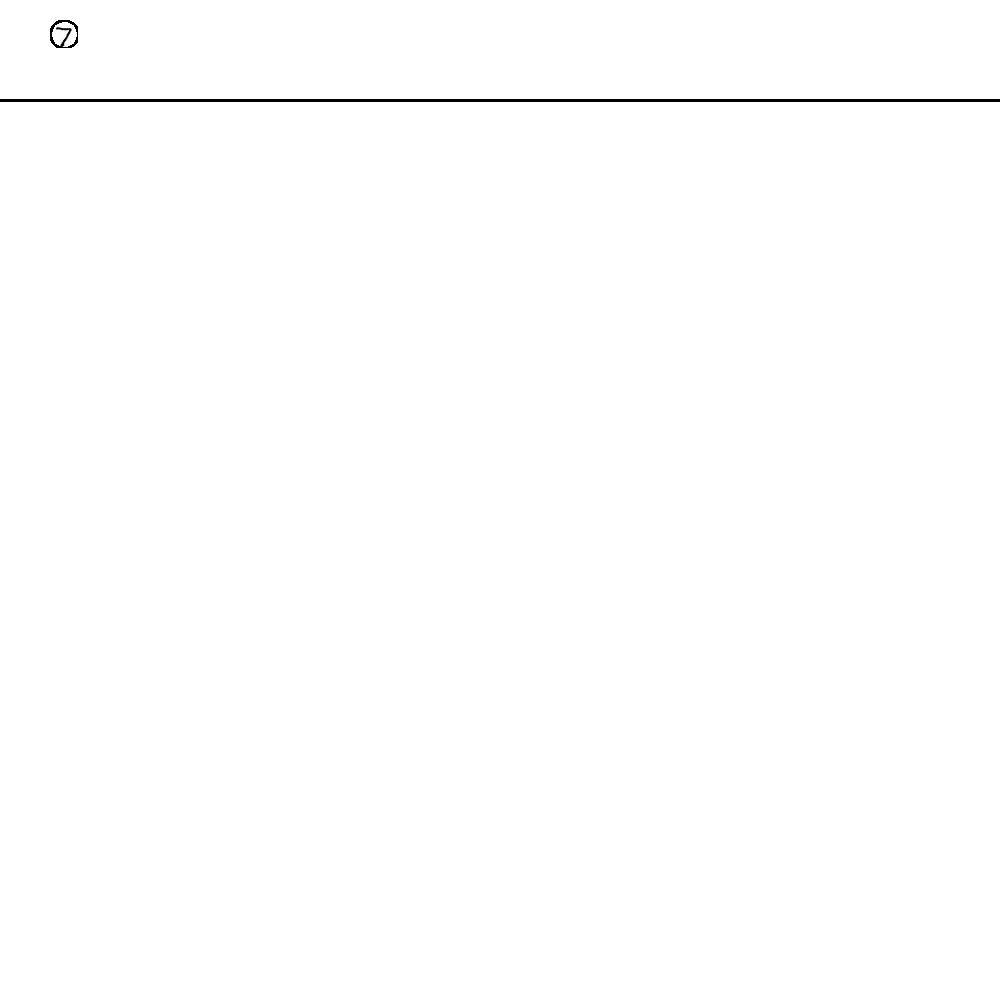
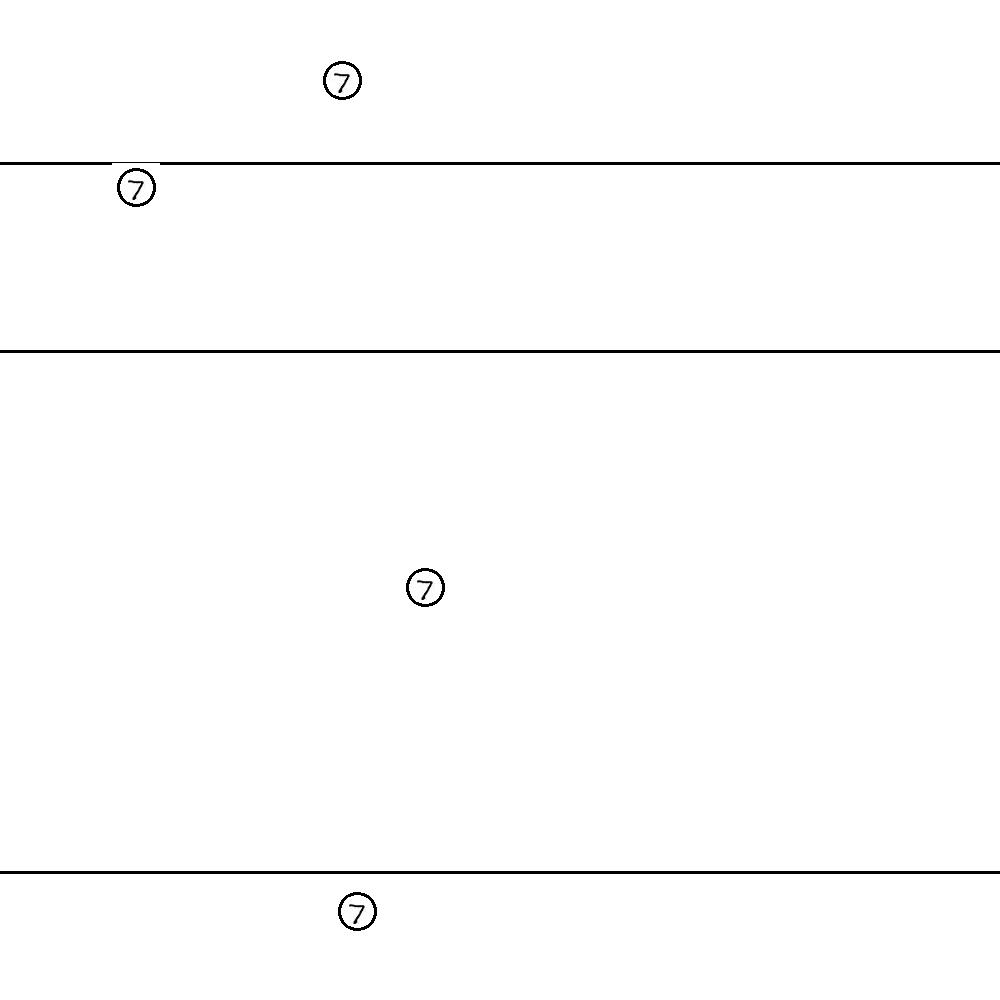
homework image now created

diff --git a/data_generator.py b/data_generator.py
@@ -9,33 +9,98 @@ from PIL import Image
 
 # MNIST_Data_Load.loadData()
 
-
 img = np.zeros([1000, 1000, 3], dtype=np.uint8)
+
 img.fill(255)
-# imwrite("Result.jpg", img)
 
-line_loc = random.randint(100, 1000)
+latest_line_loc = 0
+previous_line_loc = 0
 
-cv2.line(img=img, pt1=(0, 100), pt2=(
-    1000, 100), color=(0, 0, 0), thickness=2)
+img_PIL = None
 
-latest_location = 100
+while latest_line_loc <= 900:
 
-digit_img = cv2.imread('./data/MNIST/jpg_form/test/00000.jpg')
+    line_loc = random.randint(100, 1000)
 
-digit_img = cv2.bitwise_not(digit_img)
+    if 800 <= latest_line_loc <= 1000 or latest_line_loc + line_loc >= 950:
+        digit_img = cv2.imread('./data/MNIST/jpg_form/test/00000.jpg')
 
-dig_x, dig_y, dig_channel = digit_img.shape
+        digit_img = cv2.bitwise_not(digit_img)
 
-cv2.circle(digit_img, (int(dig_x/2), int(dig_y/2)), 14, (0, 0, 0), 2)
+        dig_x, dig_y, dig_channel = digit_img.shape
 
-digit_img_PIL = Image.fromarray(np.uint8(digit_img)).convert(
-    'RGB')  # Image.open(digit_img)
+        dig_holder = np.zeros([dig_x + 20, dig_y + 20, 3], dtype=np.uint8)
 
-img_PIL = Image.fromarray(np.uint8(img)).convert(
-    'RGB')  # Image.open(img)
+        dig_holder.fill(255)
 
-img_PIL.paste(digit_img_PIL, (50, 20))
+        dig_holder_x, dig_holder_y, dig_holder_channel = dig_holder.shape
+
+        y_offset = round((dig_holder_x-dig_x)/2)
+        x_offset = round((dig_holder_y-dig_y)/2)
+
+        dig_final = dig_holder.copy()
+
+        dig_final[y_offset:y_offset+dig_y, x_offset:x_offset+dig_x] = digit_img
+
+        cv2.circle(dig_final, (int(dig_holder_x/2),
+                               int(dig_holder_y/2)), 18, (0, 0, 0), 2)
+
+        digit_img_PIL = Image.fromarray(np.uint8(dig_final)).convert(
+            'RGB')
+
+        img_PIL = Image.fromarray(np.uint8(img)).convert(
+            'RGB')
+
+        img_PIL.paste(
+            digit_img_PIL, (random.randint(20, 800), random.randint(latest_line_loc + 10, int(1000*.95))))
+
+        img = np.array(img_PIL)
+
+        break
+
+    elif latest_line_loc + line_loc > 900:
+        break
+
+    latest_line_loc += line_loc
+
+    cv2.line(img=img, pt1=(0, latest_line_loc), pt2=(
+        1000, latest_line_loc), color=(0, 0, 0), thickness=2)
+
+    digit_img = cv2.imread('./data/MNIST/jpg_form/test/00000.jpg')
+
+    digit_img = cv2.bitwise_not(digit_img)
+
+    dig_x, dig_y, dig_channel = digit_img.shape
+
+    dig_holder = np.zeros([dig_x + 20, dig_y + 20, 3], dtype=np.uint8)
+
+    dig_holder.fill(255)
+
+    dig_holder_x, dig_holder_y, dig_holder_channel = dig_holder.shape
+
+    y_offset = round((dig_holder_x-dig_x)/2)
+    x_offset = round((dig_holder_y-dig_y)/2)
+
+    dig_final = dig_holder.copy()
+
+    dig_final[y_offset:y_offset+dig_y, x_offset:x_offset+dig_x] = digit_img
+
+    cv2.circle(dig_final, (int(dig_holder_x/2),
+                           int(dig_holder_y/2)), 18, (0, 0, 0), 2)
+
+    digit_img_PIL = Image.fromarray(np.uint8(dig_final)).convert(
+        'RGB')
+
+    img_PIL = Image.fromarray(np.uint8(img)).convert(
+        'RGB')
+
+    img_PIL.paste(
+        digit_img_PIL, (random.randint(20, 800), random.randint(int(previous_line_loc), int(latest_line_loc*.95))))
+
+    img = np.array(img_PIL)
+
+    previous_line_loc = latest_line_loc
+
 
 # above we see we AT A MINIMUM need to give 100 y-diff to be able to draw a circle and put the image
 

diff --git a/homework_maker.py b/homework_maker.py
@@ -1,8 +1,10 @@
 
 
 class Homework():
-    def __init__(self, numberOfHomeworks: int):
-        self.numberOfHomeworks = numberOfHomeworks
+    def __init__(self, numberOfHomeworks_Test: int, numberOfHomeworks_Train: int):
+        self.numberOfHomeworks_Test = numberOfHomeworks_Test
+        self.numberOfHomeworks_Train = numberOfHomeworks_Train
 
     def createHomework(self):
-        for index in (range(self.numberOfHomeworks + 1)):
+        for index in (range(self.numberOfHomeworks_Test + 1)):
+            
